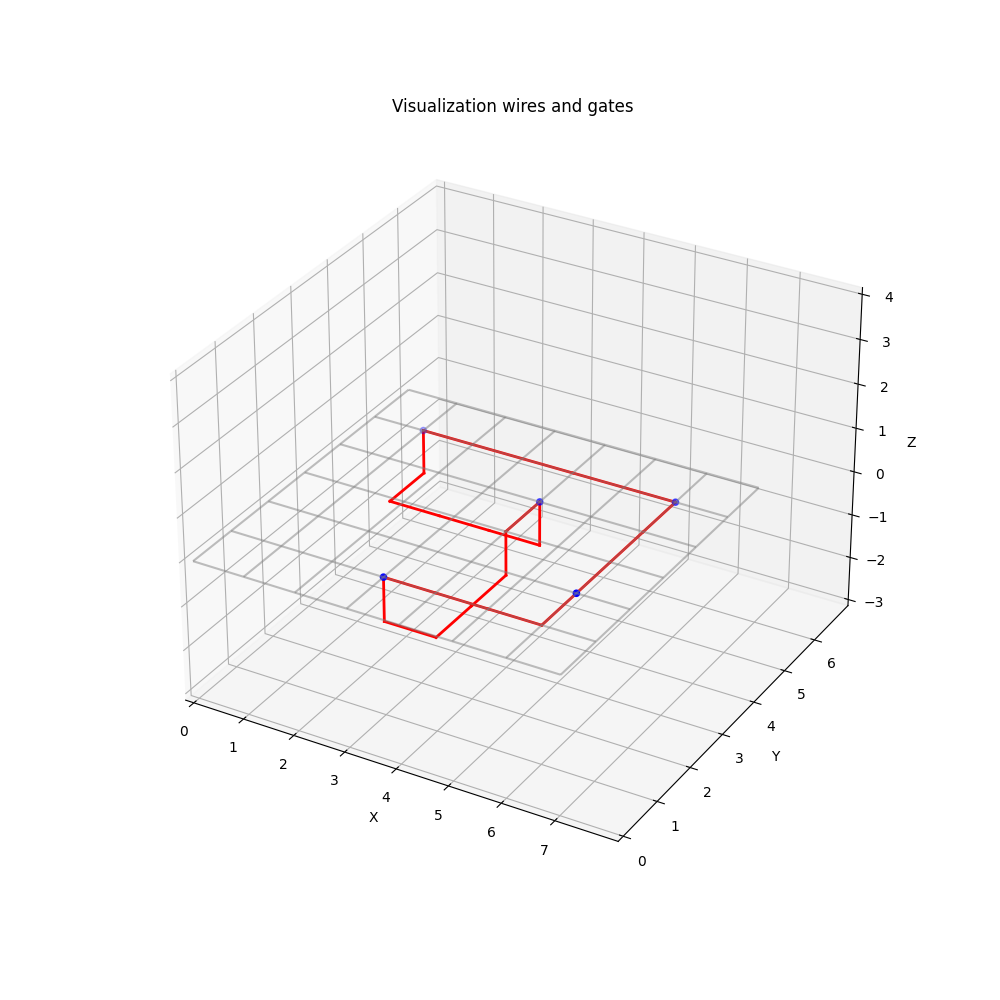
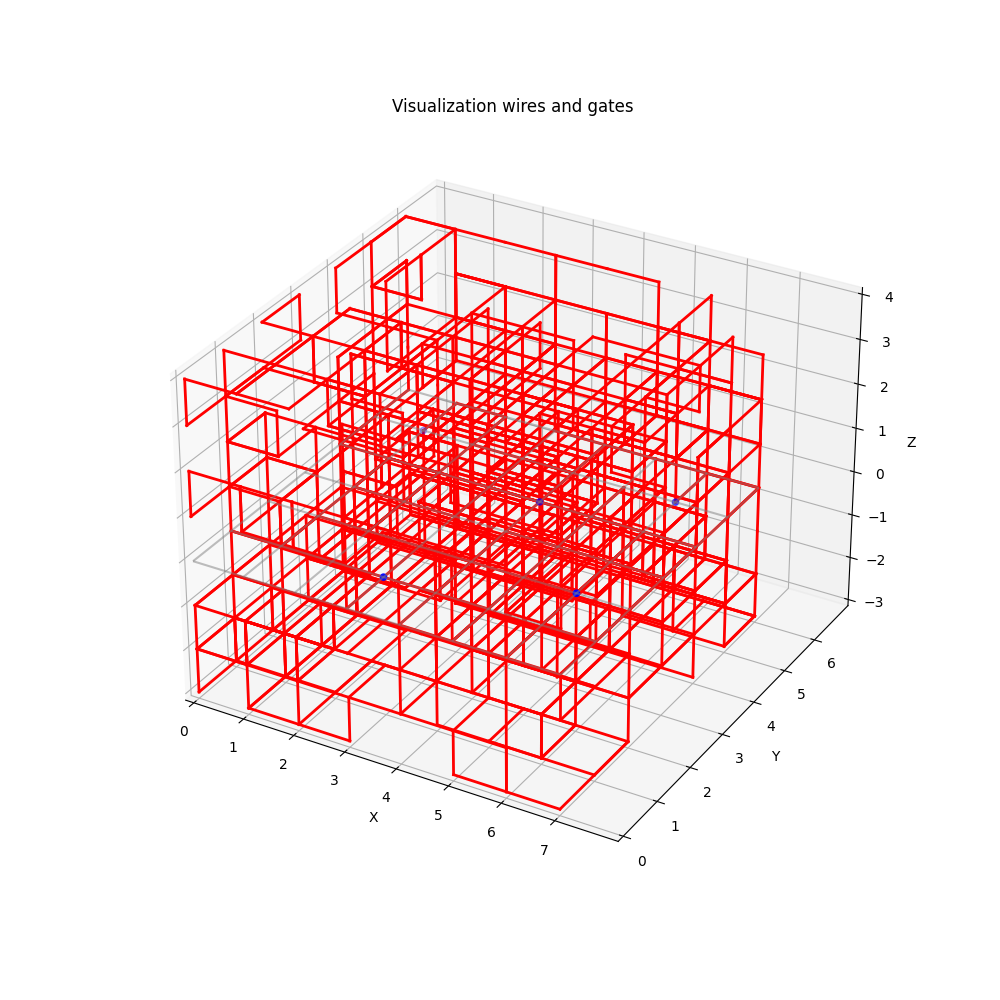
small changes

Changed region(s): [[0.186, 0.217, 0.775, 0.806]]

diff --git a/Code/main.py b/Code/main.py
@@ -42,7 +42,7 @@ def choose_algorithm(algorithm, chip, order_choice):
         random_algorithm(chip)
     
     elif algorithm == "random2D":
-        random_twee_d(chip)
+        random_2D(chip)
     
     # if algoritm is astar, run the astar algorithm
     elif algorithm == "astar":
